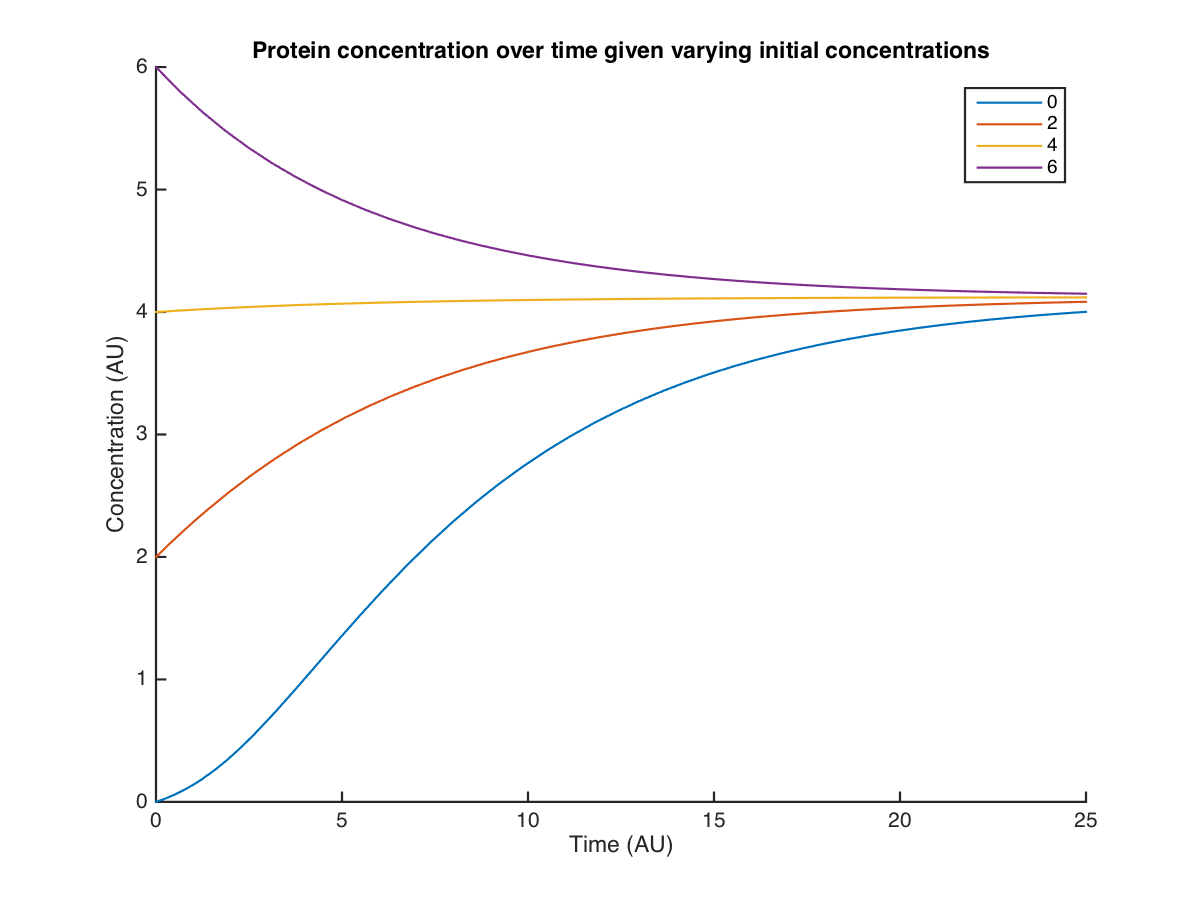
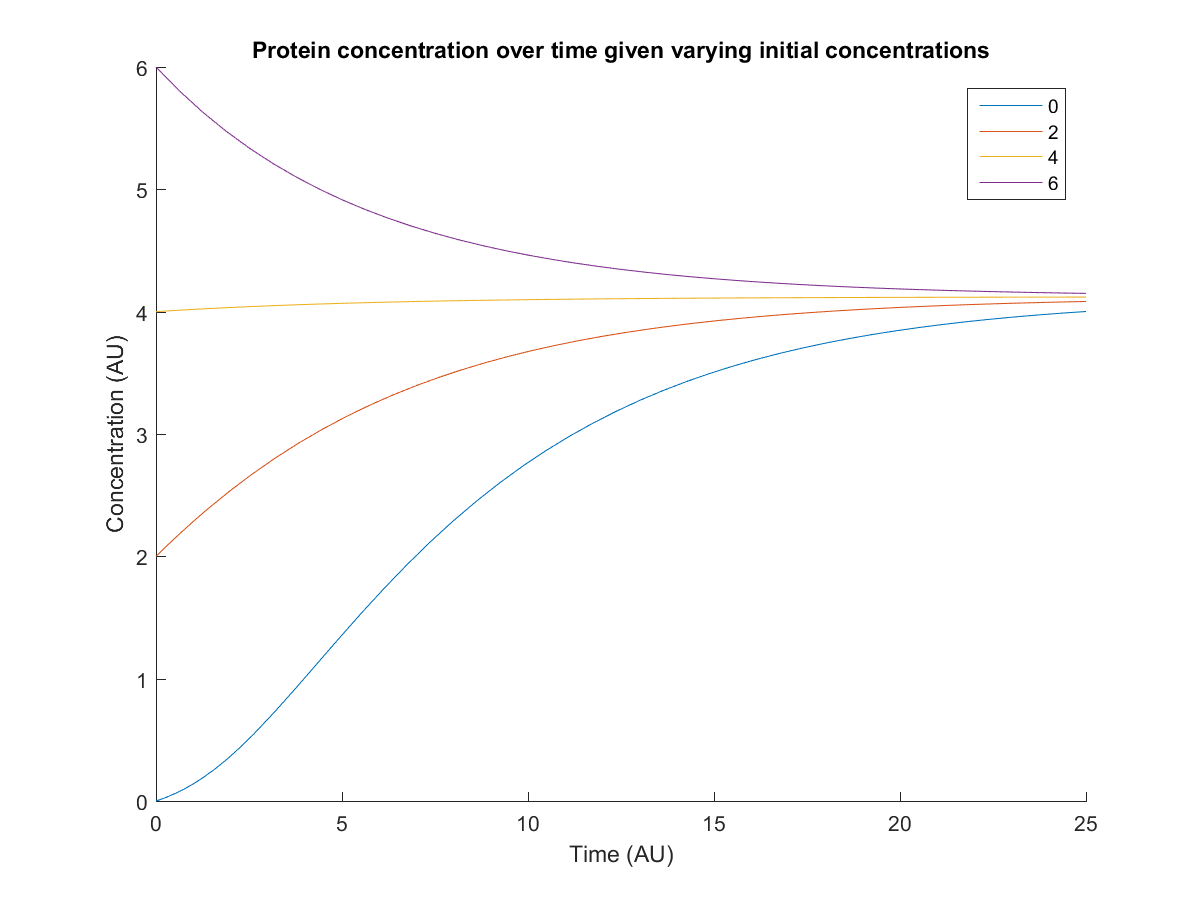
Added autorepression and dual mRNA models

diff --git a/autorepression_analysis.m b/autorepression_analysis.m
@@ -1,0 +1,96 @@
+tFinal = 25;
+x0 = 0;
+
+%% Base case - varying x0
+f1 = figure(1);
+hold on;
+fn = @(t, x) autorepression(x, 0.1, 0.9, 1, 0.2, 1);
+vals = [0 2 4 6];
+for x0_ = vals
+    [t, y] = ode45(fn, [0, tFinal], x0_);
+    plot(t, y);
+end
+cttitle('Protein concentration over time given varying initial concentrations');
+legend(num2str(vals'));
+saveas(f1, 'figures/autorepression-base.png');
+
+%% Varying a0
+f2 = figure(2);
+hold on;
+vals = 10 .^ fliplr(-4:0);
+for a0 = vals
+    fn = @(t, x) autorepression(x, a0, 0.9, 1, 0.2, 1);
+    [t, y] = ode45(fn, [0, tFinal], x0);
+    plot(t, y);
+end
+cttitle('Protein concentration over time for varying values of \alpha_0');
+legend(num2str(vals'));
+saveas(f2, 'figures/autorepression-a0.png');
+
+%% Varying ai
+f3 = figure(3);
+hold on;
+vals = 0:0.5:2;
+for ai = vals
+    fn = @(t, x) autorepression(x, 0.1, ai, 1, 0.2, 1);
+    [t, y] = ode45(fn, [0, tFinal], x0);
+    plot(t, y);
+end
+cttitle('Protein concentration over time for varying values of \alpha');
+legend(num2str(vals'));
+saveas(f3, 'figures/autorepression-ai.png');
+
+%% Varying kd
+f4 = figure(4);
+hold on;
+vals = 10 .^ (-2:2);
+for kd = vals
+    fn = @(t, x) autorepression(x, 0.1, 0.9, kd, 0.2, 1);
+    [t, y] = ode45(fn, [0, tFinal], x0);
+    plot(t, y);
+end
+cttitle('Protein concentration over time for varying values of K_D');
+legend(num2str(vals'));
+saveas(f4, 'figures/autorepression-kd.png');
+
+%% Varying d
+f5 = figure(5);
+hold on;
+vals = 0.1:0.2:1;
+for d = vals
+    fn = @(t, x) autorepression(x, 0.1, 0.9, 1, d, 1);
+    [t, y] = ode45(fn, [0, tFinal], x0);
+    plot(t, y);
+end
+cttitle('Protein concentration over time for varying values of \delta');
+legend(num2str(vals'));
+saveas(f5, 'figures/autorepression-d.png');
+
+%% Varying n
+f6 = figure(6);
+hold on;
+vals = 1:4;
+for n = vals
+    fn = @(t, x) autorepression(x, 0.1, 0.9, 1, 0.2, n);
+    [t, y] = ode45(fn, [0, tFinal], x0);
+    plot(t, y);
+end
+cttitle('Protein concentration over time for varying values of n');
+legend(num2str(vals'));
+saveas(f6, 'figures/autorepression-n.png');
+
+%% Varying n (negative cooperativity
+f7 = figure(7);
+hold on;
+vals = [1 1/2 1/4 1/8];
+for n = vals
+    fn = @(t, x) autorepression(x, 0.1, 0.9, 1, 0.2, n);
+    [t, y] = ode45(fn, [0, tFinal], x0);
+    plot(t, y);
+end
+cttitle('Protein concentration over time for varying values of n (negative cooperativity)');
+legend(num2str(vals'));
+saveas(f7, 'figures/autorepression-nneg.png');
+
+%%
+close all

diff --git a/dual_mrna.m b/dual_mrna.m
@@ -1,7 +1,7 @@
 function xp = dual_mrna(s, a0, ai, akd, ad, an, at, adp, b0, bi, bkd, bd, bn, bt, bdp)
     amp = a0 + ai * unbound(s(4), bkd, bn) - ad * s(1);
     app = at * s(1) - adp * s(2);
-    bmp = b0 + bi * bound(s(1), akd, an) - bd * s(2);
+    bmp = b0 + bi * bound(s(2), akd, an) - bd * s(3);
     bpp = bt * s(3) - bdp * s(4);
     xp = [amp ; app ; bmp ; bpp];
 end

diff --git a/dual_mrna_analysis.m b/dual_mrna_analysis.m
@@ -1,0 +1,13 @@
+tFinal = 60;
+initials = [0 0 0 0]';
+fn = @(t, y) dual_mrna(y, 0.1, 0.9, 1, 0.7, 1, 1, 0.2, 0.1, 0.9, 1, 0.7, 1, 1, 0.2);
+[t, y] = ode15s(fn, [0, tFinal], initials);
+%subplot(1, 2, 1);
+figure;
+title('Solutions');
+legend('A mRNA', 'A', 'B mRNA', 'B');
+plot(t, y);
+%subplot(1, 2, 2);
+figure;
+title('Phase plane');
+plot(y(:, 2), y(:, 4));

diff --git a/autorepression.m b/autorepression.m
@@ -1,0 +1,3 @@
+function xp = autorepression(x, a0, ai, kd, d, n)
+    xp = a0 + ai * unbound(x, kd, n) - d * x;
+end
